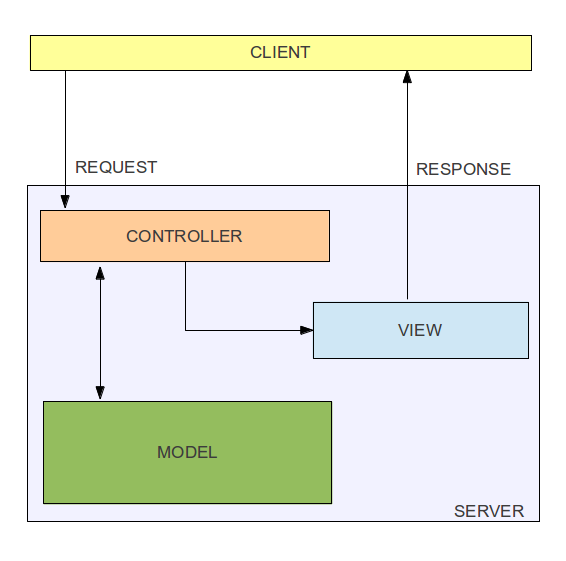
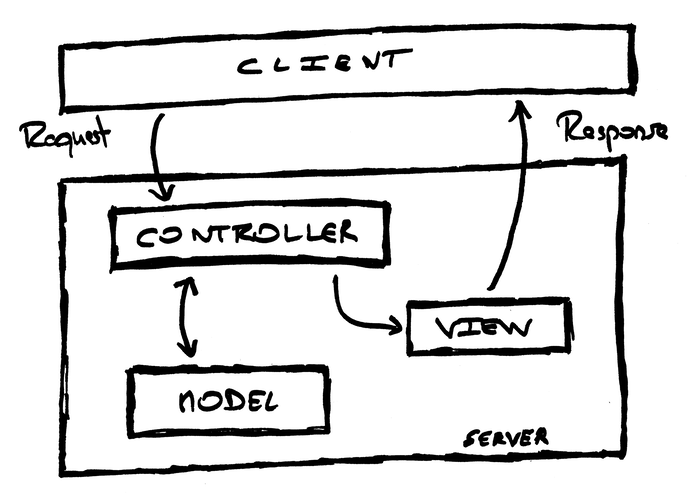
More fixes, add images

diff --git a/css/custom.css b/css/custom.css
@@ -5,7 +5,7 @@ body {
     font-family: 'Droid Sans', sans-serif;
 }
 
-p {
+p, li {
     line-height: 1.5em;
 }
 
@@ -90,7 +90,7 @@ code {
     padding: 2px 6px 3px 6px;
     font-size: 100%;
     font-family: Courier, monospace;
-    background-color: #373637;
+    background-color: #073642;
     color: #FFF;
 }
 
@@ -103,6 +103,39 @@ li {
     padding: 5px 0;
 }
 
+ol li p {
+    margin-top: 0;
+    margin-bottom: 0;
+}
+
 h1 {
     margin-top: 10px;
+}
+
+h1 img {
+    margin-top: 30px;
+}
+
+h1 img.no-border {
+    margin-top: auto;
+}
+
+img {
+    border-radius: 3px;
+    box-shadow: 3px 3px 10px 5px #373637;
+}
+
+img.no-border {
+    border-radius: 0;
+    box-shadow: none;
+}
+
+.sidebar,
+.sidebar a,
+.sidebar a:visited {
+    color: #000;
+}
+
+#toc img {
+    display: none;
 }

diff --git a/themes/avalanche/avalanche/base.html b/themes/avalanche/avalanche/base.html
@@ -38,7 +38,7 @@
     <link rel="stylesheet" media="print" href="{{ css.print.path_url }}">
     <link rel="stylesheet" media="screen, projection" href="{{ css.screen.path_url }}">
     {% endif %}
-    <link rel="stylesheet" href="css/font-awesome/css/font-awesome.min.css">
+    <link rel="stylesheet" href="{{ css.screen.path_url|replace('screen.css', 'font-awesome/css/font-awesome.min.css') }}">
     {% for css in user_css %}
       {% if embed %}
       <style type="text/css" media="screen, projection">
@@ -182,6 +182,9 @@
       </tr>
     </table>
   </div>
-  <script>$().landslide();</script>
+  <script>
+      $().landslide();
+      $('.page_number').toggle();
+  </script>
 </body>
 </html>

diff --git a/src/1/09_databases.md b/src/1/09_databases.md
@@ -38,7 +38,7 @@ Don't forget his name! Read his books!
 
 ---
 
-# Row Data Gateway ![](http://martinfowler.com/eaaCatalog/dbgateRow.gif)
+# Row Data Gateway ![](../images/row-data-gateway.png)
 
 ---
 
@@ -117,7 +117,7 @@ There is one instance per row.
 
 ---
 
-# Table Data Gateway ![](http://martinfowler.com/eaaCatalog/dbgateTable.gif)
+# Table Data Gateway ![](../images/table-data-gateway.png)
 
 ---
 
@@ -268,7 +268,7 @@ A DAO implements the well-known **C**reate **R**ead **U**pdate
 
 ---
 
-# Active Record ![](http://martinfowler.com/eaaCatalog/activeRecordSketch.gif)
+# Active Record ![](../images/active-record.png)
 
 ---
 
@@ -326,7 +326,7 @@ the database access, and adds domain logic on that data.
 
 ---
 
-# Data Mapper ![](http://martinfowler.com/eaaCatalog/databaseMapperSketch.gif)
+# Data Mapper ![](../images/data-mapper.png)
 
 ---
 
@@ -386,7 +386,7 @@ But also:
 
 ---
 
-# Identity Map ![](http://martinfowler.com/eaaCatalog/idMapperSketch.gif)
+# Identity Map ![](../images/identity-map.png)
 
 ---
 
@@ -417,12 +417,11 @@ a map. Looks up objects using the map when referring to them.
 
 ---
 
-# Data Access Layer
+# Data Access Layer / Data Source Name
 
 A **D**ata **A**ccess **L**ayer (DAL) is a standard API to manipulate data,
 no matter which database server is used.
-
-The **D**ata **S**ource **N**ame (DSN) can be used to determine which database
+A **D**ata **S**ource **N**ame (DSN) can be used to determine which database
 vendor you are using.
 
 ### PHP Data Object (PDO)
@@ -539,10 +538,10 @@ seen above, and that eases relationships between objects.
 
 ### One-To-One (1-1)
 
-![](http://yuml.me/diagram/scruffy;/class///%20Cool%20Class%20Diagram,%20%5BBanana%5D%3C1---1%3E%5BProfile%5D.png)
+<img src="../images/one-to-one.png" class="no-border" />
 
 
-### Example
+### Code Snippet
 
     !php
     $profile = $banana->getProfile();
@@ -553,9 +552,9 @@ seen above, and that eases relationships between objects.
 
 ### One-To-Many (1-N)
 
-![](http://yuml.me/diagram/scruffy;/class/%5BBananaTree%5D++-0..N%5BBanana%5D.png)
+<img src="../images/one-to-many.png" class="no-border" />
 
-### Example
+### Code Snippet
 
     !php
     $bananas = $bananaTree->getBananas();
@@ -566,9 +565,9 @@ seen above, and that eases relationships between objects.
 
 ### Many-To-Many (N-N)
 
-![](http://yuml.me/diagram/scruffy;/class/%5BBanana%5D1-0..N%5BBananaRole%5D,%20%5BBananaRole%5D0..N-1%5BRole%5D.png)
+<img src="../images/many-to-many.png" class="no-border" />
 
-### Example
+### Code Snippet
 
     !php
     $roles = [];

diff --git a/src/1/14_embracing_open_source.md b/src/1/14_embracing_open_source.md
@@ -2,22 +2,22 @@
 
 ---
 
-# ![](../images/github.png)
+<h1><img src="../images/github.png" class="no-border" /></h1>
 
 ---
 
-# ![](../images/travis-ci.png)
+<h1><img src="../images/travis-ci.png" class="no-border" /></h1>
 
 ---
 
 # Golden Rules
 
-* Read other people's code is the fastest way to learn
-* Think about what you have to do
-* Read the code, not the doc
-* Never trust the user
-* Think again
-* Simple is always better than complicated
-* Keep your code readable
-* Test your code, it eases refactoring
-* Keep [HTTP protocol](http://pretty-rfc.herokuapp.com/RFC2616) in mind
+* Read other people's code is the fastest way to learn;
+* Think about what you have to do;
+* Read the code, not the doc;
+* Never trust the user;
+* Think again;
+* Simple is always better than complicated;
+* Keep your code readable;
+* Test your code, it eases refactoring;
+* Keep [HTTP protocol](http://pretty-rfc.herokuapp.com/RFC2616) in mind.

diff --git a/src/1/11_authentication.md b/src/1/11_authentication.md
@@ -27,14 +27,13 @@ We need a way to hook into this process before invoking the controller:
 The **Interceptor Pattern** allows you to execute some code during the default
 application's lifecyle.
 
-A way to implement this pattern is to use **events**. It's more or less like
+A way to implement this pattern is to use **events**. It is more or less like
 the **Observer**/**Observable** pattern.
 
 ### Event Dispatcher
 
 The application notifies a set of listeners to an event.
 The listeners can register themselves to a particular event.
-
 An **Event Dispatcher** manages both the listeners, and the events.
 
 ---
@@ -189,9 +188,9 @@ If authentication fails, the server should return a `401` status code.
 
 Useful for API authentication.
 
-### OAuth
+### OpenID
 
-[http://oauth.net/](http://oauth.net/)
+[http://openid.net/](http://openid.net/)
 
 ### Basic and Digest Access Authentication
 

diff --git a/src/1/13_testing.md b/src/1/13_testing.md
@@ -39,9 +39,7 @@ Or as a PHAR:
 
 ---
 
-# Using PHPUnit
-
-## The Rules
+# PHPUnit — The Rules
 
 The tests for a class `Class` go into a class `ClassTest`.
 
@@ -52,8 +50,8 @@ from it:
     !php
     class TestCase extends PHPUnit_Framework_TestCase {}
 
-The tests are public methods that are named `test*`.
-You can also use the `@test` annotation:
+The tests are public methods that are named `test*`, but you can also use the
+`@test` annotation:
 
     !php
     class ClassTest extends TestCase
@@ -67,7 +65,7 @@ You can also use the `@test` annotation:
 
 ---
 
-# PHPUnit Assertions
+# PHPUnit — Assertions
 
 * `assertEquals()`
 * `assertTrue()`

diff --git a/src/1/02_the_php_syntax.md b/src/1/02_the_php_syntax.md
@@ -386,6 +386,9 @@ Horizontal Inheritance FTW!
 
 # Anonymous Functions
 
+An **anonymous function**, also known as **lambda** function, is a function
+defined, and possibly called, without being bound to an identifier.
+
     !php
     $greet = function ($name) {
         printf("Hello %s\n", $name);
@@ -400,6 +403,8 @@ Horizontal Inheritance FTW!
 ---
 
 # Closures
+
+A **closure** is an anonymous function that owns a context.
 
     !php
     $fibonacci = function ($n) use (&$fibonacci) {

diff --git a/src/1/08_model_view_controller.md b/src/1/08_model_view_controller.md
@@ -5,7 +5,7 @@
 
 Typical client request process in MVC architecture:
 
-![](../images/MVC.png)
+![](../images/mvc.png)
 
 ## Presenter notes
 
@@ -180,7 +180,7 @@ This require a single entry point: the **Frontend Controller**.
 
 A controller that handles all requests for a web application:
 
-![](http://martinfowler.com/eaaCatalog/frontController-sketch.gif)
+![](../images/front-controller.png)
 
 This controller dispatches the request to the **specialized controllers**.
 
